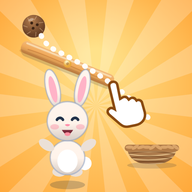
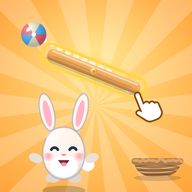
Add files via upload

Changed region(s): [[0.0938, 0.0625, 0.875, 1.0], [0.625, 0.75, 0.9688, 0.9688]]

diff --git a/index.md b/index.md
@@ -15,7 +15,7 @@ Tinyhearth Studio is an independent game studio. We make warm, beautiful mobile 
 ### Puffin Bakehouse
 **[Get it on Google Play](https://play.google.com/store/apps/details?id=com.tinyhearthstudio.puffinbakehouse)**
 
-Grandma Puffin left you the keys to a tiny bakery on a windy cliff. Bake fresh bread, serve a line of hungry animal customers and grow her little shop into a chain of eight cozy shops, all the way to a diner in space. Plays offline.
+Grandma Puffin left you the keys to a tiny bakery on a windy cliff. Bake fresh bread, serve a line of hungry animal customers and grow her little shop into a chain of ten cozy shops, all the way to a diner in space. Plays offline.
 
 [Privacy policy](puffin-bakehouse-privacy.html) · Support: tinyhearthstudio.games@gmail.com
 
@@ -39,7 +39,7 @@ Clear blocks to rescue sea creatures and grow a coral reef of your own. A calm b
 <img src="glowloop-icon.png" alt="Glowloop icon" width="96" align="left" style="margin-right:16px;border-radius:20px">
 
 ### Glowloop
-*Coming soon to Google Play*
+**[Get it on Google Play](https://play.google.com/store/apps/details?id=com.tinyhearthstudio.glowloop)**
 
 Draw loops of light to catch fireflies under a starry sky. Mix colours to discover 120 firefly species, relight 300 levels across 10 night realms and grow your own Night Garden. Plays offline.
 
@@ -52,7 +52,7 @@ Draw loops of light to catch fireflies under a starry sky. Mix colours to discov
 <img src="nudgeville-icon.png" alt="Nudgeville icon" width="96" align="left" style="margin-right:16px;border-radius:20px">
 
 ### Nudgeville
-*Coming soon to Google Play*
+**[Get it on Google Play](https://play.google.com/store/apps/details?id=com.tinyhearthstudio.nudgeville)**
 
 Watch the mishap, rewind time, then make one nudge and a chain reaction rescues an animal friend. A cute physics puzzle with 120 hand-checked levels in 6 worlds and a daily puzzle. Plays offline.
 
